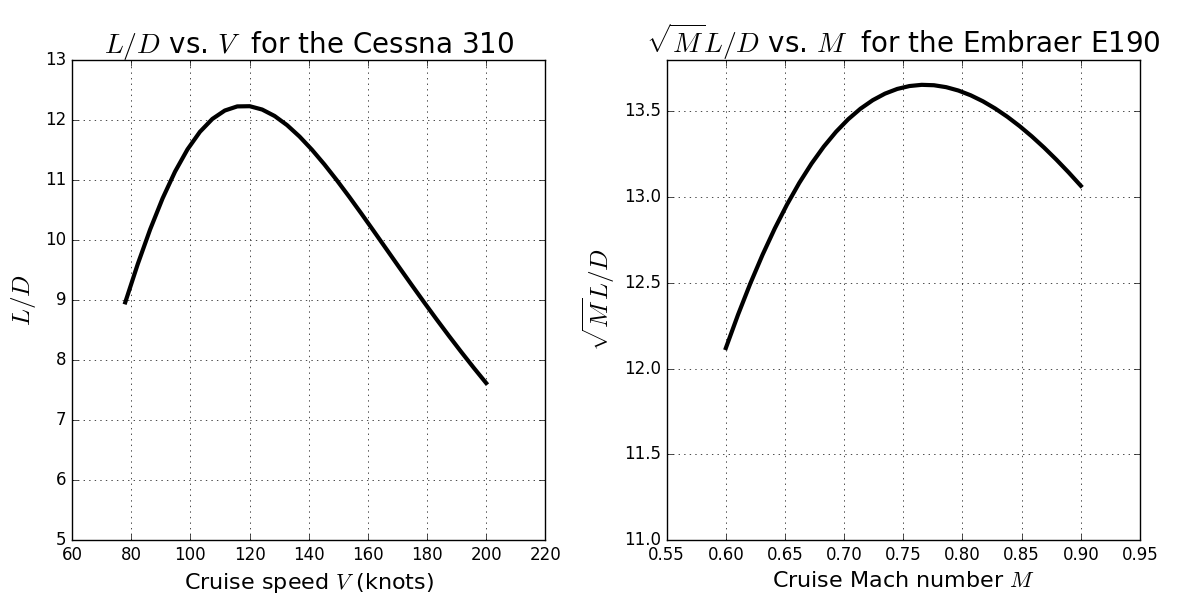
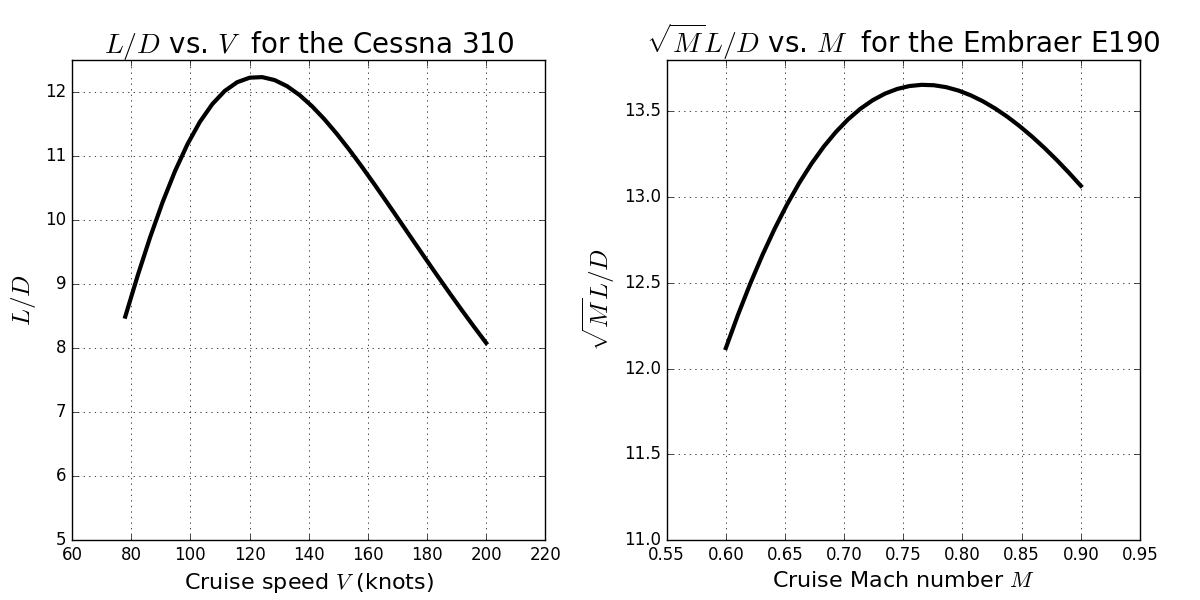
Switch to 10,000 ft for the Cessna 310

diff --git a/cruise_speed_analysis.py b/cruise_speed_analysis.py
@@ -71,6 +71,13 @@ if __name__ == "__main__":
 	E190["CD0_wing"] = E190["CD_wing"] - E190["CDi"]
 	E190["CD0"] = E190["CD0_wing"] + E190["CD_nonwing"]
 
+	#Maximum-range computations for the Cessna 310 (h = 10000 ft)
+	cessna_310["V_maxRange"], cessna_310["CL_maxRange"] = max_range(W=cessna_310["W_DG"],\
+		rho=rho["h = 10000 ft"],S=cessna_310["S"],CD0=cessna_310["CD0"],K=cessna_310["K"],aircraftType="prop")
+	cessna_310["V_maxRange"] = cessna_310["V_maxRange"].to(ft_per_s)
+	cessna_310["V_maxRange_knots"] = cessna_310["V_maxRange"].to(ureg.knots)
+	cessna_310["M_maxRange"] = cessna_310["V_maxRange"] / a["h = 10000 ft"]
+	
 	#Maximum-range computations for the Embraer 190 (h = 36,000 ft)
 	E190["V_maxRange"], E190["CL_maxRange"] = max_range(W=E190["W_DG"],\
 		rho=rho["h = 36000 ft"],S=E190["S"],CD0=E190["CD0"],K=E190["K"],aircraftType="jet")
@@ -78,17 +85,10 @@ if __name__ == "__main__":
 	E190["V_maxRange_knots"] = E190["V_maxRange"].to(ureg.knots)
 	E190["M_maxRange"] = E190["V_maxRange"] / a["h = 36000 ft"]
 
-	#Maximum-range computations for the Cessna 310 (h = 7,500 ft)
-	cessna_310["V_maxRange"], cessna_310["CL_maxRange"] = max_range(W=cessna_310["W_DG"],\
-		rho=rho["h = 7500 ft"],S=cessna_310["S"],CD0=cessna_310["CD0"],K=cessna_310["K"],aircraftType="prop")
-	cessna_310["V_maxRange"] = cessna_310["V_maxRange"].to(ft_per_s)
-	cessna_310["V_maxRange_knots"] = cessna_310["V_maxRange"].to(ureg.knots)
-	cessna_310["M_maxRange"] = cessna_310["V_maxRange"] / a["h = 7500 ft"]
-
 	#L/D vs. V computations for the Cessna 310
 	num_pts = 30
 	cessna_310_cruiseData = {}
-	cessna_310_cruiseData["rho"] = rho["h = 7500 ft"]
+	cessna_310_cruiseData["rho"] = rho["h = 10000 ft"]
 	cessna_310_cruiseData["V"] = np.linspace(78,200,num_pts)*ureg.knots
 	cessna_310_cruiseData["CL"] = (2*cessna_310["W_DG"]) \
 		/ (cessna_310_cruiseData["rho"] * cessna_310_cruiseData["V"]**2 * cessna_310["S"])
@@ -146,7 +146,7 @@ if __name__ == "__main__":
 
 	#Print results to command line
 	print ""
-	print "Analysis of the Cessna 310 (h = 7,500 ft)"
+	print "Analysis of the Cessna 310 (h = 10,00 ft)"
 	print ""
 	print "W_DG: %0.0f lbs" % cessna_310["W_DG"].to(ureg.lbf).magnitude
 	print "S: %0.0f ft^2" % cessna_310["S"].to(square_foot).magnitude
@@ -172,7 +172,7 @@ if __name__ == "__main__":
 	#Save results to file
 	output_data = open("cruise_speed_analysis_data.txt","w")
 
-	output_data.write("Analysis of the Cessna 310 (h = 7,500 ft)\n\n")
+	output_data.write("Analysis of the Cessna 310 (h = 10,000 ft)\n\n")
 	for key in cessna_310.keys():
 		output_data.write("\t%s: %0.4f %s\n" % (key, cessna_310[key].magnitude, cessna_310[key].units))
 
